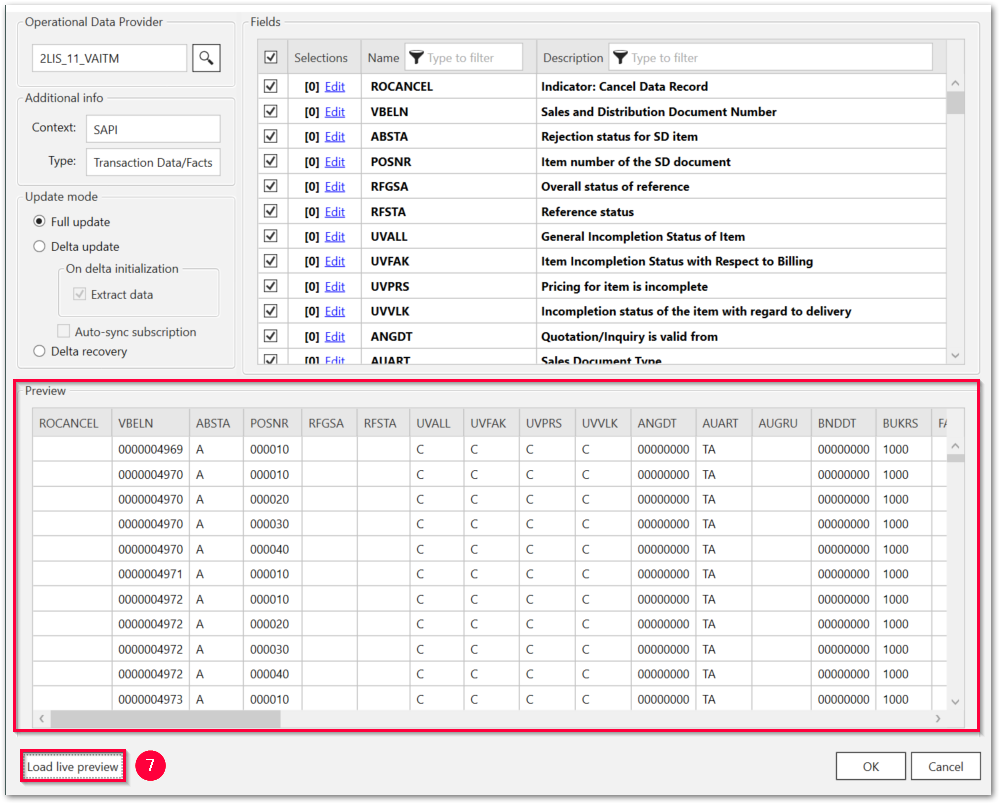
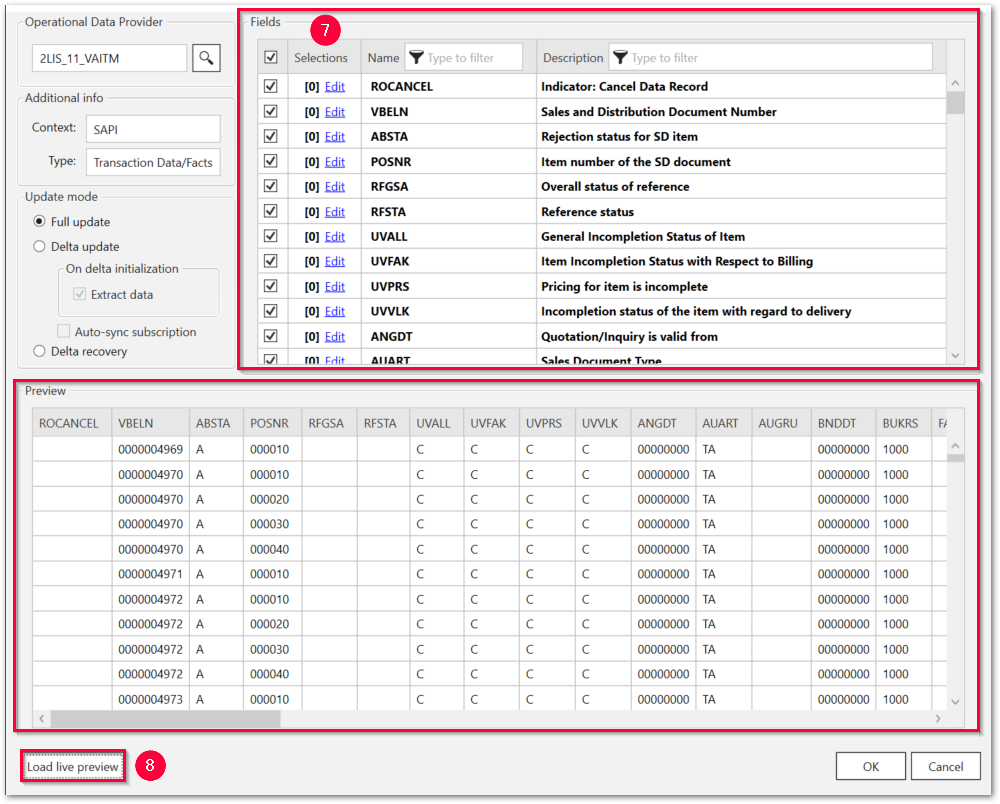
extractors

Changed region(s): [[0.217, 0.0, 0.992, 0.4664]]

diff --git a/content/_en/xtract-universal/odp/odp-define.md b/content/_en/xtract-universal/odp/odp-define.md
@@ -27,32 +27,9 @@ The window "Operational Data Provider Lookup" opens.
 	DataSources/Extractors [[SAPI](./odp/odp-extractors)] | - DataSources and Extractors |
 4. Click **Search** (magnifying glass symbol) (4) and select the extractor of your choice from the displayed list (5).
 5. Click **[OK]** (6) to confirm.
-6. Update mode/Hierarchy
-7. Optional: Create selections by activating or deactivating fields. To add [filters](#selections-and-filters) click the **Edit** option next to the fields.
-8. Click **[Load live preview]** (7) to display a live preview of the data without executing an extraction.
+6. Optional: Create selections by activating or deactivating fields (7). To add [filters](#selections-and-filters) click the **Edit** option next to the fields. 
+If your data source is Hierarchy, see [Select Hierarchy](./odp-extractors#hierarchies) for filter options.
+7. Click **[Load live preview]** (8) to display a live preview of the data without executing an extraction.
 ![Datasource Preview](/img/content/odp/odp-datasource-2lis-11-vaitm-02-preview.png){:class="img-responsive"}
-9. Before executing an extraction, check the [extraction settings](./odp-settings).
+8. Before executing an extraction, check the [extraction settings](./odp-settings).
 
-### Update Mode 
-**Full update**: <br/>
-Extracts the data in full mode <br/>
-
-{: .box-note }
-**Note:** The **Delta update** option is ready for input only if the ODP provider in the SAP source system supports delta updates.
-
-**Delta update**:<br/>
-Runs a delta initialization, if no delta initialization is available for selected subscriber. Runs a delta update, if there is a delta initialization for the selected subscriber. <br/>
-
-- **On delta initialization** <br/>
-Checking the *Extract data* checkbox, allows extracting data when running a delta initialization. 
-Leaving the checkbox unchecked runs a delta initialization without extracting data. <br/>
-- **Auto-sync subscription**<br/>
-Allows deletion of the existing subscription and creates a new subscription, if required.
-Each extraction has an internal ID, which is part of the subscriber. 
-If you change the filter of an extraction after the delta initialization, the *Auto-sync subscription* option automatically deletes the existing subscription and creates a new one. 
-A subscription is deleted, if the error message "Illegal change in selection parameters" returns from the SAP system.<br/>
-
-**Delta recovery:**<br/>
-Re-runs the last delta update 
-
-{% include _content/en/odp/odp-settings-filtering.md %}

diff --git a/_includes/_content/en/odp/odp-extractors.md b/_includes/_content/en/odp/odp-extractors.md
@@ -1,9 +1,11 @@
 ### About Extractors
-Xtract ODP can be used to extract data from Business Content DataSource (Extractors). The majority of DataSources, including generic (custom) DataSources, can get released for Operational Data Provisioning. 
+Xtract ODP can be used to extract data from Business Content DataSource (Extractors). 
+The majority of DataSources, including generic (custom) DataSources, can be released for Operational Data Provisioning. 
 
-Xtract ODP doesn’t change the implementation of application extractors, all the features and capabilities are unchanged. 
+Xtract ODP does not change the implementation of application extractors, all features and capabilities remain unchanged. 
 
-An extractor (in ERP or S/4 HANA) is an encapsulated business object, representing few source tables already in the source system  which brings business logic and it’s really a strength of the SAP source system because it’s very easy to get the business logic extracted. 
+An extractor (in ERP or S/4 HANA) is an encapsulated business object, representing multiple source tables already in the source system  
+and containing business logic.
 
 Extractors can provide the following data types:
 - Transactional data
@@ -15,14 +17,11 @@ There are standard delta extraction methods available for master data and transa
 
 ### Using Extractors
 
-When [searching](./odp-functions-ov#operational-data-provider) for BW InfoProviders, make sure to select the correct context. 
+Things that need to be considered when using Extractors:
+
+1. When [searching](./odp-define) for BW InfoProviders, make sure to select the correct context. 
 ![ODP SAPI Search](/img/content/odp/odp-datasource-sapi.png){:class="img-responsive"}
-
-{: .box-note }
-**Note:** When the delta load is available for the source object in the SAP source system, the **Delta Update** option is available in the ODP component. 
-
-![ODP SAPI Search](/img/content/odp/odp-datasource-2lis-11-vaitm-02-preview.png){:class="img-responsive"}
-
-Click **[Load live preview]** to preview the data without executing an extraction.
+2. If delta load is available for the source object in the SAP source system, the **Delta Update** option is available in the ODP component. 
+3. If the data source is a Hierarchy, there are additional settings, see [Hierarchies](#hierarchies).
 
 {% include _content/en/odp/odp-hierarchy.md %} 

diff --git a/_includes/_content/en/odp/odp-hierarchy.md b/_includes/_content/en/odp/odp-hierarchy.md
@@ -1,15 +1,13 @@
 
-### Select Hierarchy
+### Hierarchies
 
 If the source object is of type Hierarchy, the window "Select Hierarchy" opens.
 
 1. Select a Hierarchy (1) from the list of Hierarchies in the "Select Hierarchy" window. 
-2. Confirm your selection with **[OK]**.
+2. Confirm your selection with **[OK]**. The name of the selected Hierarchy is displayed under **Selected Hierarchy** (2).
 3. Select which segments to extract (3). 
 ![Select-Hierarchy](/img/content/odp/select-hierarchy.png){:class="img-responsive"}
 
-#### Selected Hierarchy
-Displays the name of the selected Hierarchy (2).
 
 #### Segment(s) to extract
 Hierarchies are divided into segments by the API.
@@ -23,4 +21,4 @@ The selected data is displayed in the *Fields* section.
 
 
 {: .box-note }
-**Note:** Hierarchies can be passed at runtime as runtime parameters.
+**Note:** Hierarchies can be passed as runtime parameters at runtime.

diff --git a/content/_en/xtract-universal/odp/odp-extractors.md b/content/_en/xtract-universal/odp/odp-extractors.md
@@ -10,7 +10,6 @@ weight: 5
 lang: en_GB
 progressstate: 5
 ---
-
 {% include _content/en/odp/odp-extractors.md %} 
 
 ****
